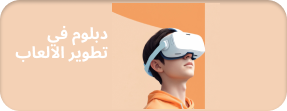
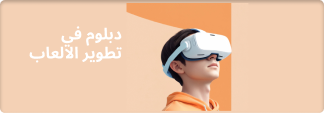
slider images updated

diff --git a/lib/screens/Home/image_slider.dart b/lib/screens/Home/image_slider.dart
@@ -12,8 +12,8 @@ class _ImageSliderState extends State<ImageSlider> {
   int _currentImage = 0;
   final List<String> images = [
     'assets/Group 44.png',
-    'assets/Group 44.png',
-    'assets/Group 44.png',
+    'assets/Group 114.png',
+    'assets/Screenshot 1446-03-17 at 12.00.00 AM 1.png',
   ];
 
   late PageController _pageController;
@@ -69,8 +69,8 @@ class _ImageSliderState extends State<ImageSlider> {
                   child: Image.asset(
                     images[index],
                     fit: BoxFit.contain,
-                    width: 343,
-                    height: 180,
+                    width: 400,
+                    height: 200,
                   ),
                 ),
               );
